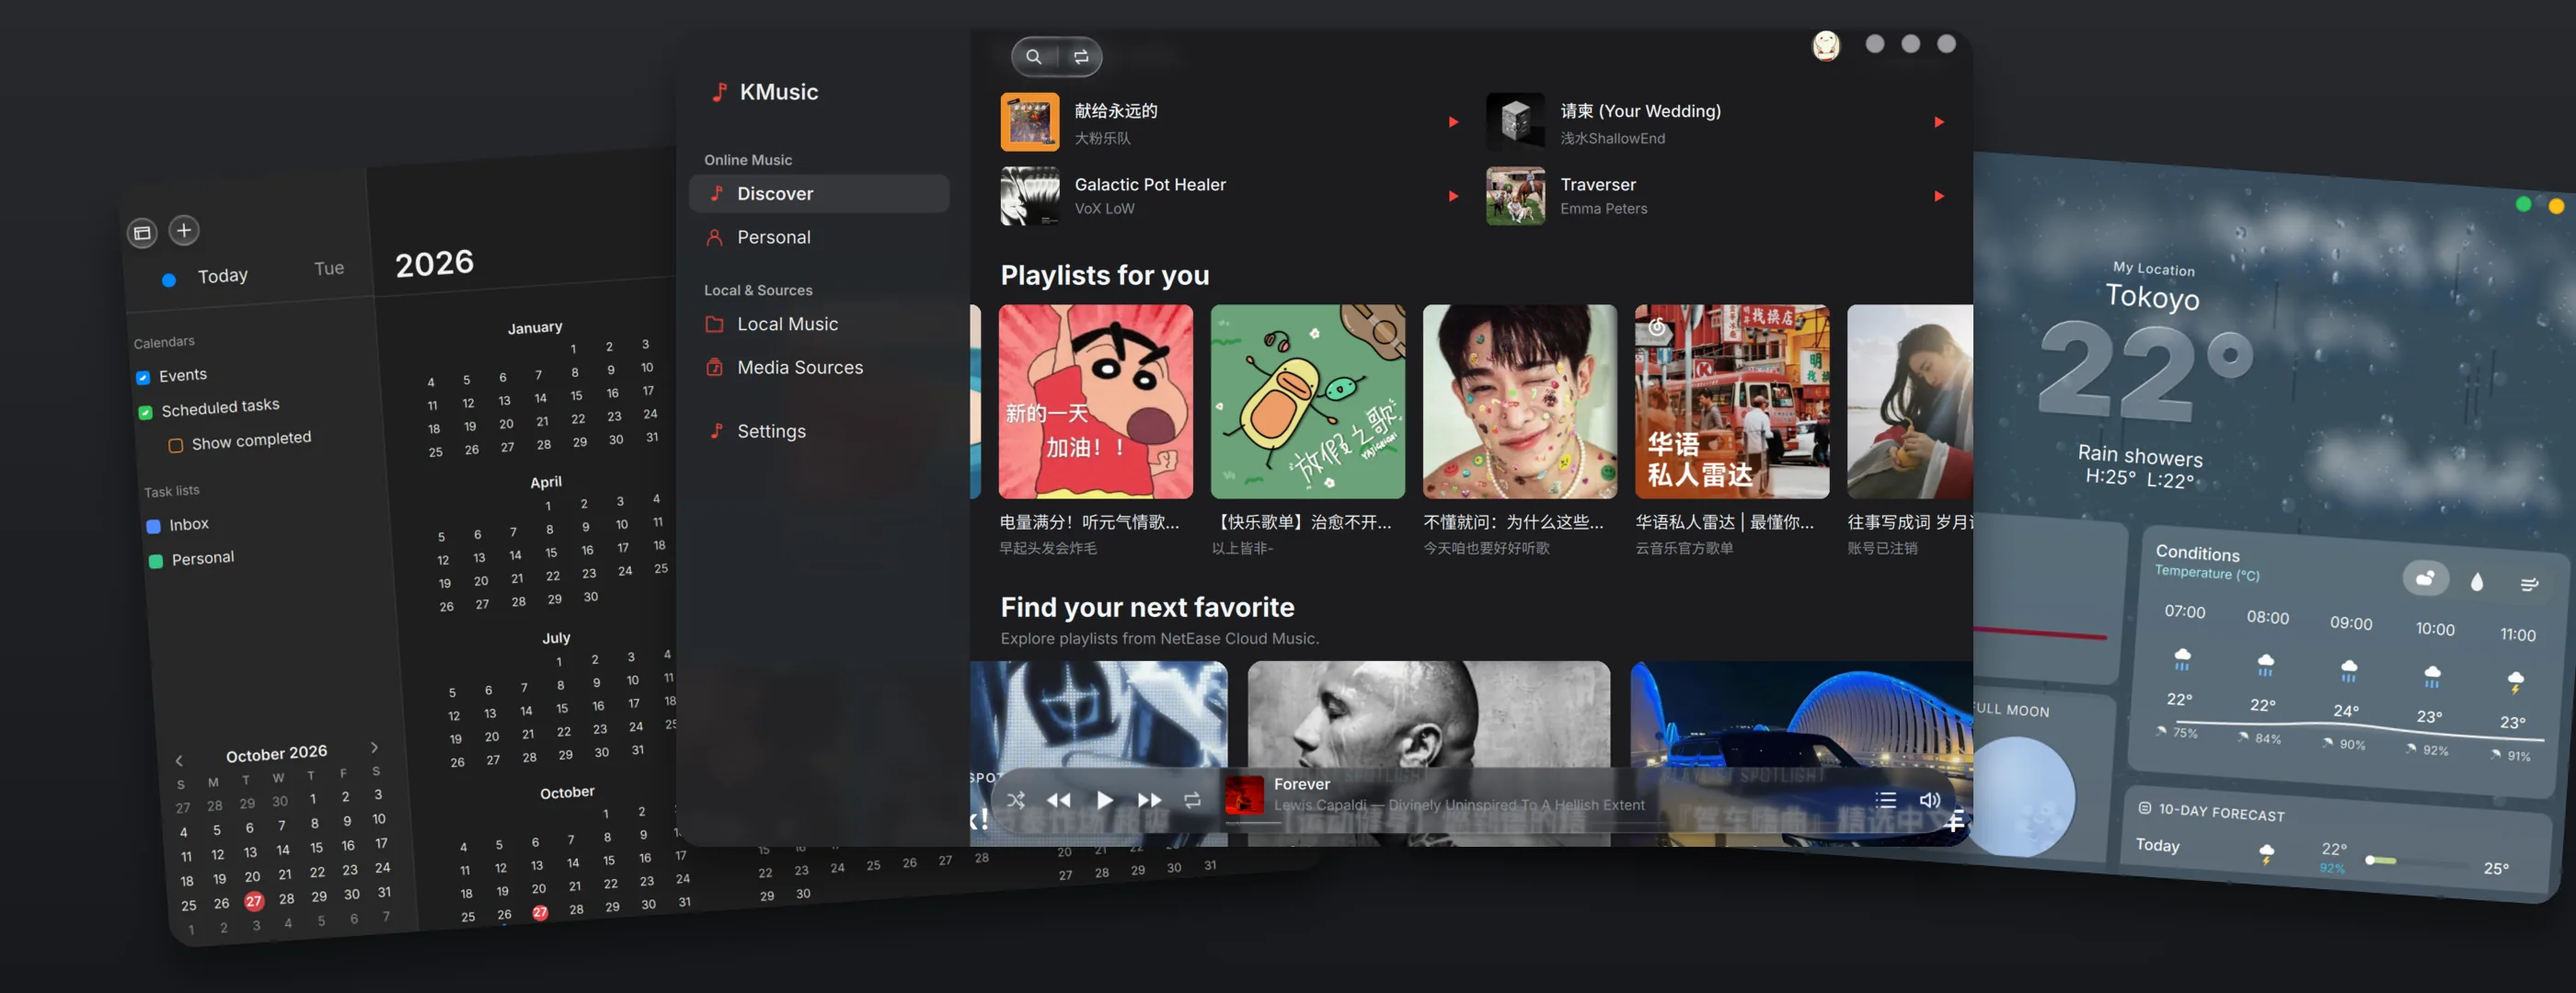
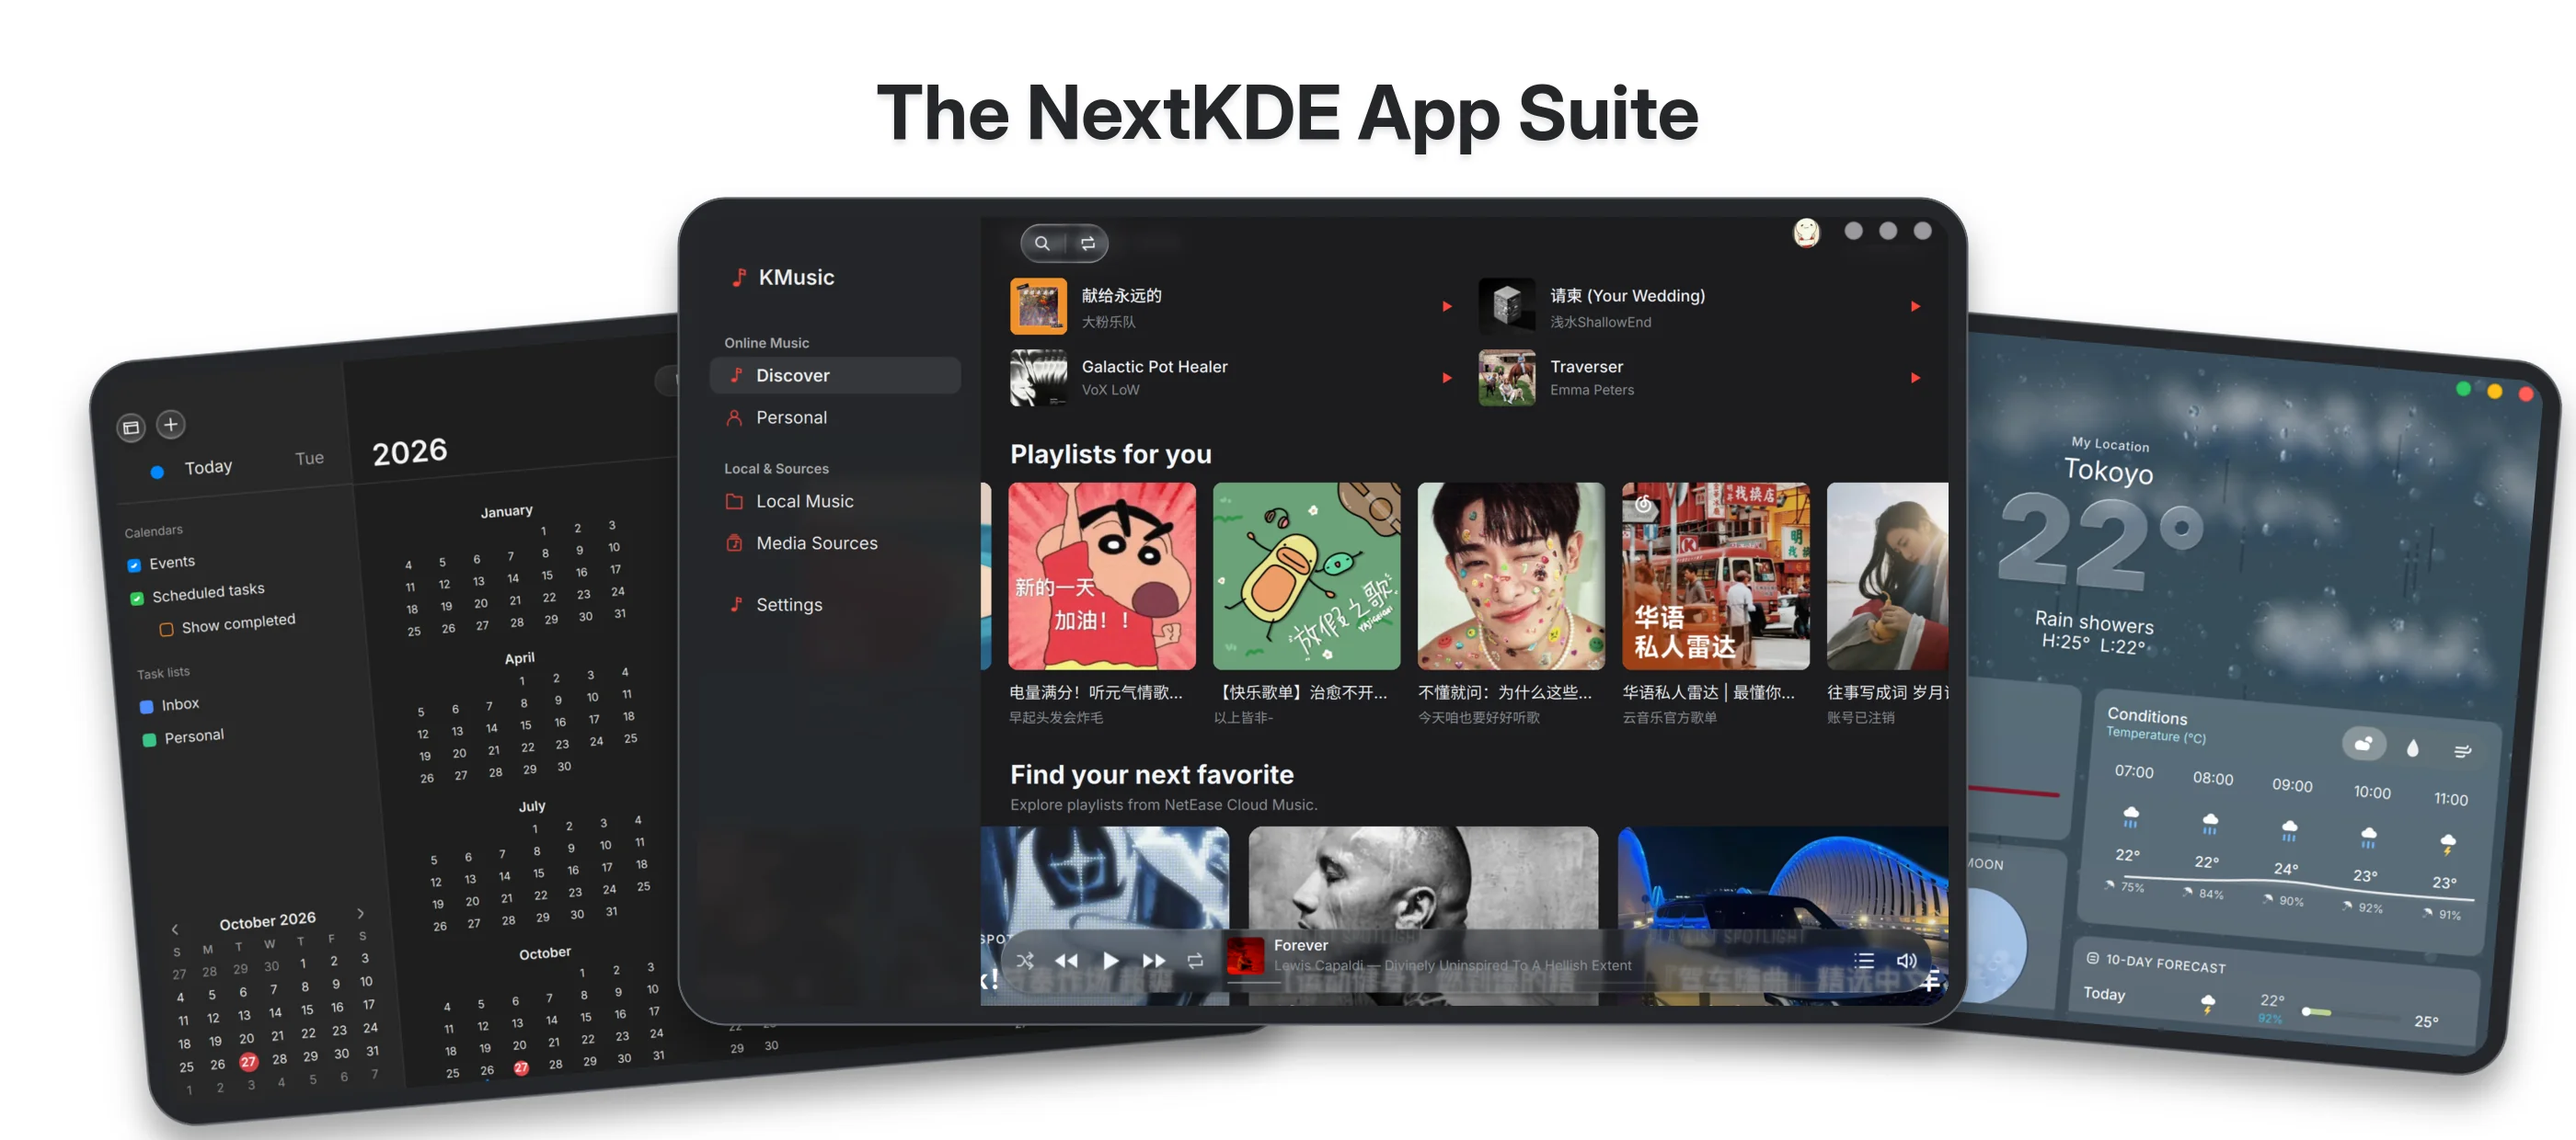
docs: present companion apps in tablet showcase

diff --git a/README.md b/README.md
@@ -19,9 +19,16 @@ Liquid glass, a floating dock, and a workspace you can make your own.</p>
 
 <p align="center"><code>Plasma 6 / Wayland</code> &nbsp; <code>Quickshell 0.3.x</code> &nbsp; <code>Qt 6</code></p>
 
-![NextKDE Calendar, KMusic, and Weather windows in a layered showcase](docs/images/apps-showcase.webp)
+![NextKDE desktop with the top bar, floating dock, desktop widgets, and appearance settings](docs/images/desktop.png)
 
-<p align="center"><sub>Calendar · <a href="https://github.com/NextKde/KMusic">KMusic</a> · Weather</sub></p>
+<p align="center"><sub>The NextKDE desktop · macOS appearance · Theme settings</sub></p>
+
+NextKDE's desktop experience extends to a growing family of companion apps:
+Calendar, Weather, Calculator, and Todo are available as optional apps, while
+[KMusic](https://github.com/NextKde/KMusic) brings music into the mix. Mail and
+File Manager are planned for the future.
+
+![The NextKDE App Suite: Calendar, KMusic, and Weather in slim tablet frames](docs/images/apps-showcase.webp)
 
 ---
 
@@ -30,8 +37,6 @@ Liquid glass, a floating dock, and a workspace you can make your own.</p>
 NextKDE's **KOS Desktop Shell** brings the bar, dock, launcher, search,
 notifications, and settings together on KDE Plasma 6 Wayland. It works with
 KWin, NetworkManager, PipeWire, BlueZ, and systemd.
-
-![NextKDE desktop with the top bar, floating dock, desktop widgets, and appearance settings](docs/images/desktop.png)
 
 | A workspace at a glance | A desktop in motion | Your choice of appearance |
 | :--- | :--- | :--- |

diff --git a/README.zh-CN.md b/README.zh-CN.md
@@ -5,11 +5,12 @@
 基于 Quickshell 的 KDE Plasma 桌面，包含顶栏、浮动 Dock、启动器、搜索、通知、设置、桌面文件及组件。
 支持液态玻璃、柔光/磨砂、Material 外观，接入 KWin、NetworkManager、PipeWire、BlueZ、systemd。
 
-![NextKDE 日历、KMusic 与天气窗口叠放展示](docs/images/apps-showcase.webp)
-
-日历 · [KMusic](https://github.com/NextKde/KMusic) · 天气
-
 ![NextKDE 桌面](docs/images/desktop.png)
+
+NextKDE 的桌面体验也延伸到一套持续完善的配套应用：日历、天气、计算器和待办可按需安装，
+[KMusic](https://github.com/NextKde/KMusic) 则带来音乐体验。邮件和文件管理器也在后续规划中。
+
+![NextKDE 的全家桶：细边框展示的日历、KMusic 与天气](docs/images/apps-showcase.zh-CN.webp)
 
 ## 开始使用
 
